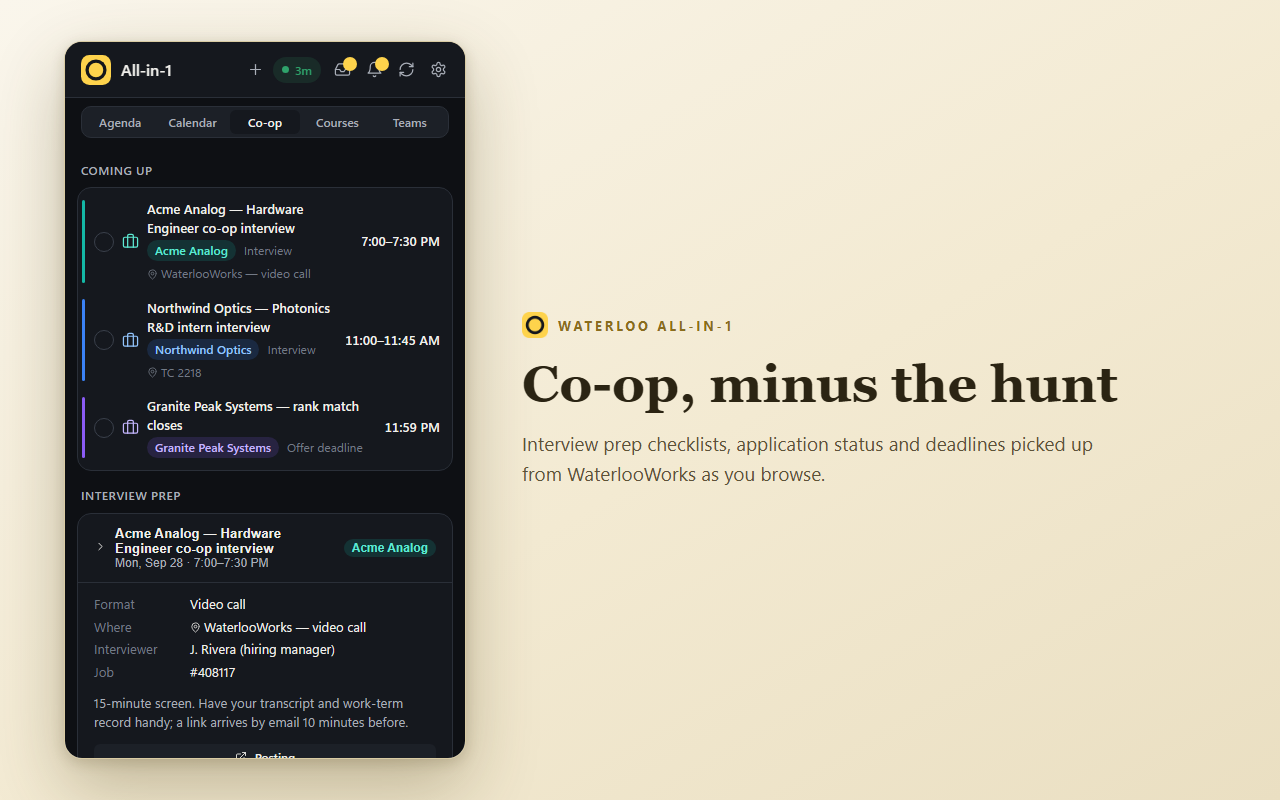
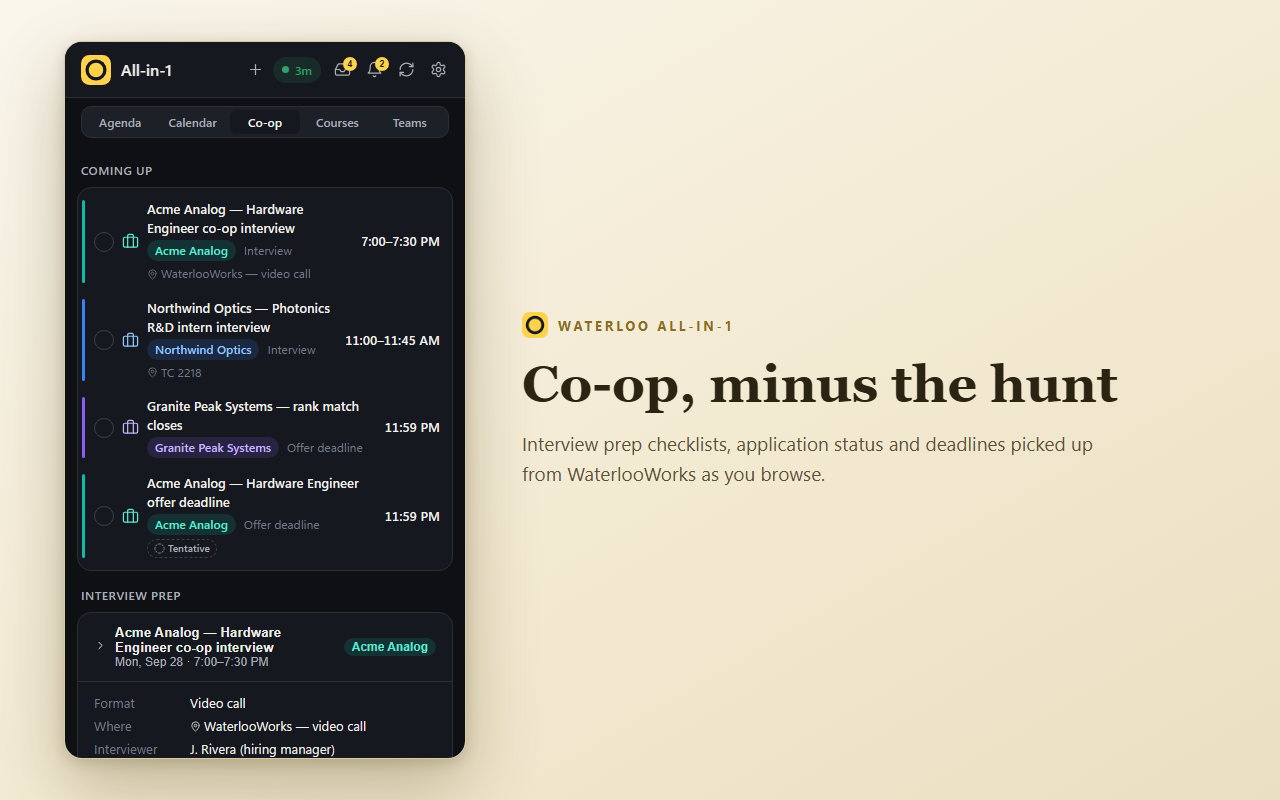
CP3 preview fixtures, shot set and refreshed store screenshots

Changed region(s): [[0.0625, 0.5938, 0.3438, 0.8438], [0.0625, 0.875, 0.3125, 0.9688]]

diff --git a/extension/src/panel/preview-fixtures.js b/extension/src/panel/preview-fixtures.js
@@ -212,6 +212,44 @@ export function previewState(nowD = new Date(), variants = {}) {
     url: "https://waterlooworks.uwaterloo.ca/myAccount/co-op/rankings.htm",
     seenIn: seen("waterlooworks", "rank-granite", "applications", today),
   });
+  add("gmail:invite:k7:evt", {
+    source: "gmail",
+    type: "meeting",
+    title: "Robotics design review",
+    startAt: dayAt(nowD, 2, 18, 0),
+    endAt: dayAt(nowD, 2, 19, 0),
+    location: "https://meet.google.com/abc-defg-hij",
+    url: "https://mail.google.com/mail/u/0/#inbox/thread-abc123",
+    meta: {
+      provider: "gmail",
+      facts: [
+        { label: "Organizer", value: "Jane Student" },
+        { label: "Join", value: "meet.google.com/abc-defg-hij" },
+      ],
+    },
+    seenIn: seen("gmail", "invite:k7", "email:gmail:thread-abc123", today),
+  });
+  add("outlook:mail:k41:offer", {
+    source: "outlook",
+    type: "offer-deadline",
+    title: "Acme Analog — Hardware Engineer offer deadline",
+    org: "Acme Analog",
+    dueAt: dayAt(nowD, 4, 23, 59),
+    confidence: "tentative",
+    url: "https://outlook.office.com/mail/inbox/id/k41",
+    evidence: {
+      method: "text",
+      snippet: "Your offer for Hardware Engineer — co-op expires this Friday.",
+      url: "https://outlook.office.com/mail/inbox/id/k41",
+    },
+    meta: {
+      provider: "outlook",
+      employer: "acmeanalog",
+      applicationId: "waterlooworks:408117",
+      facts: [{ label: "From", value: "Talent Team" }],
+    },
+    seenIn: seen("outlook", "mail:k41", "email:outlook:k41", today),
+  });
   add("discord:wato-electrical-sync", {
     source: "discord",
     type: "meeting",
@@ -480,6 +518,15 @@ export function previewState(nowD = new Date(), variants = {}) {
       itemCount: 24,
       state: {},
     },
+    outlook: {
+      lastRunAt: iso(now - 30 * MIN),
+      lastOkAt: iso(now - 30 * MIN),
+      session: "signed-in",
+      error: null,
+      complete: false,
+      failures: 0,
+      itemCount: 2,
+    },
     discord: {
       lastRunAt: iso(now - 20 * MIN),
       lastOkAt: iso(now - 20 * MIN),
@@ -534,6 +581,10 @@ export function previewState(nowD = new Date(), variants = {}) {
         { component: "Final exam", weight: 40, dateText: "Dec exam window", itemId: null, from: "chart" },
       ],
       officeHours: "Mon/Wed 3:30–4:20 PM · MC 5417",
+      instructors: [
+        { name: "J. Rivera", email: "jrivera@example.edu", section: "LEC 002" },
+        { name: "A. Chen", section: "TUT 104" },
+      ],
     },
     "MATH 115": {
       code: "MATH 115",
@@ -670,7 +721,7 @@ export function previewState(nowD = new Date(), variants = {}) {
         { status: "selected-for-interview", at: iso(now - 3 * DAY) },
         { status: "interview-scheduled", at: iso(now - DAY) },
       ],
-      itemIds: ["waterlooworks:int-acme"],
+      itemIds: ["waterlooworks:int-acme", "outlook:mail:k41:offer"],
     },
     "waterlooworks:407890": {
       id: "waterlooworks:407890",
